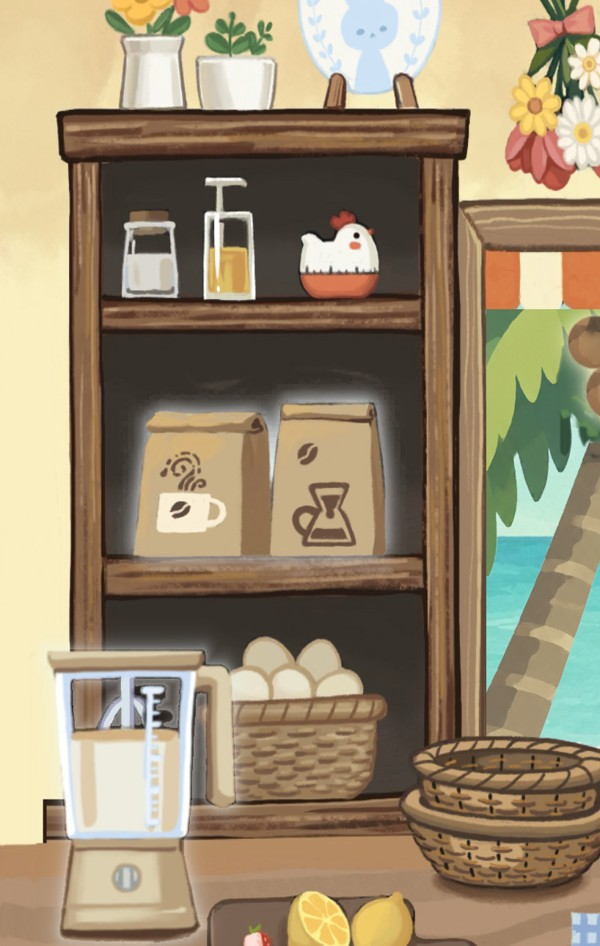
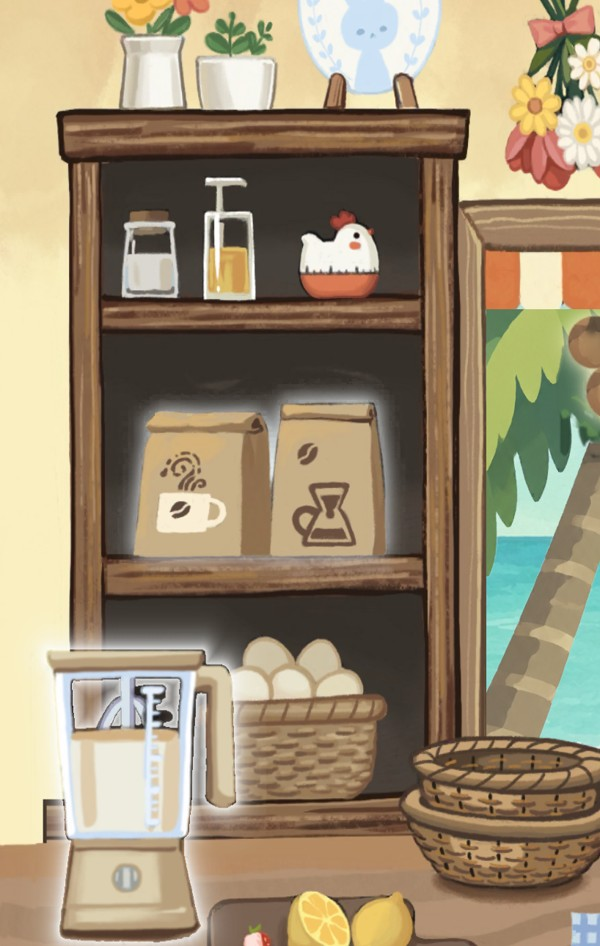
Blender glow twice as strong and wider (owner: 'more obvious, like the coffee bag glow'); report: the kitchen board and stand angles

Changed region(s): [[0.06, 0.6438, 0.42, 1.0]]

diff --git a/Docs/tools/report_page/index.html b/Docs/tools/report_page/index.html
@@ -81,6 +81,19 @@ h3 small{font-weight:600;color:var(--soft);font-size:13px;margin-left:6px}
 </div>
 
 <h2 id="qa"><span class="n">2</span>Q&amp;A</h2>
+<div class="q"><h3>You asked: is the fruit board in the kitchen at 40 degrees?</h3>
+<ul>
+<li><b>No.</b> The board is drawn from almost straight above: the lemon's cut face is a full circle.</li>
+<li><b>The cake stand is the other way,</b> seen from low: the cake's top is less than half as tall as it is wide.</li>
+<li><b>The table look</b> (40 degrees): a round thing is about three quarters as tall as it is wide, like your heart plate.</li>
+<li>So the two don't match each other, nor the table. If either gets a new job (the cake and choux step), the cake or choux drawn on it should match its angle, or the board and stand get redrawn to one angle first.</li>
+</ul>
+<figure><img src="kitchen_angles.jpg" alt="The fruit board seen from above, the cake stand seen from low, and the table's heart plate at 40 degrees"></figure>
+<ul class="checks">
+<li><label><input type="checkbox" data-id="qa.kangle.40"> Redraw both at the table's 40 degrees</label></li>
+<li><label><input type="checkbox" data-id="qa.kangle.stand"> Redraw the board to match the cake stand</label></li>
+<li><label><input type="checkbox" data-id="qa.kangle.keep"> Keep them as they are</label></li>
+</ul></div>
 <div class="q"><h3>You asked: does the shop panel scroll by dragging, or only with the arrow buttons?</h3>
 <ul><li>Both. A finger drag scrolls the cards up and down; the arrow buttons do the same in steps.</li></ul></div>
 <div class="q"><h3>You asked: how do we keep the winter chapter hidden while regular releases go on?</h3>
@@ -97,7 +110,7 @@ h3 small{font-weight:600;color:var(--soft);font-size:13px;margin-left:6px}
 <p style="margin-top:0"><b>Kitchen: the "tap me" glow on the blender, 15 November.</b> In the game, in no build.</p>
 <figure><img src="blender_glow.jpg" alt="The chapter 2 kitchen: the coffee bags and the blender both with a soft white glow around them"><figcaption>The blender now has the same soft white glow as the coffee bags.</figcaption></figure>
 <ul>
-<li>Painted to match the bags' glow: the same colour, strength and width on screen.</li>
+<li>Twice as strong and wider than the bags' own glow (your note): the blender stands against the light wall, where the bags' strength hardly showed.</li>
 <li>Only where the blender can be tapped (chapter 2). In chapter 1 it is decoration and has no glow.</li>
 </ul>
 <ul class="checks">
